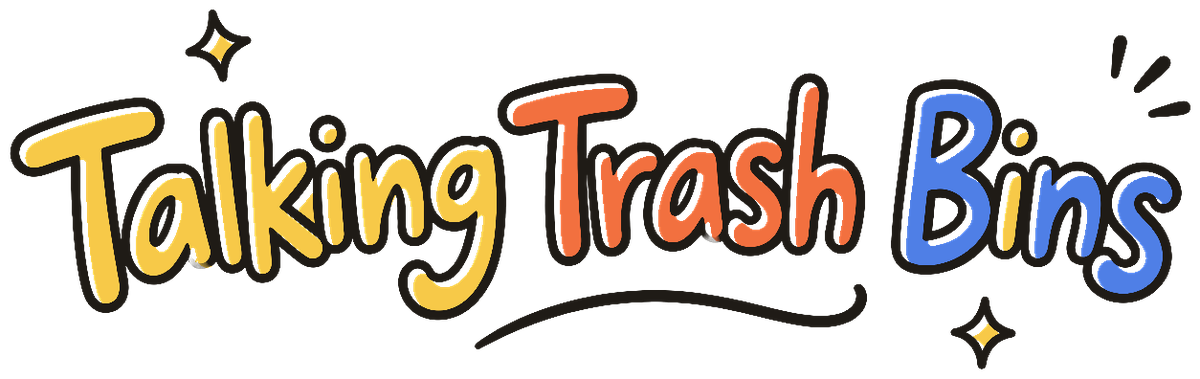
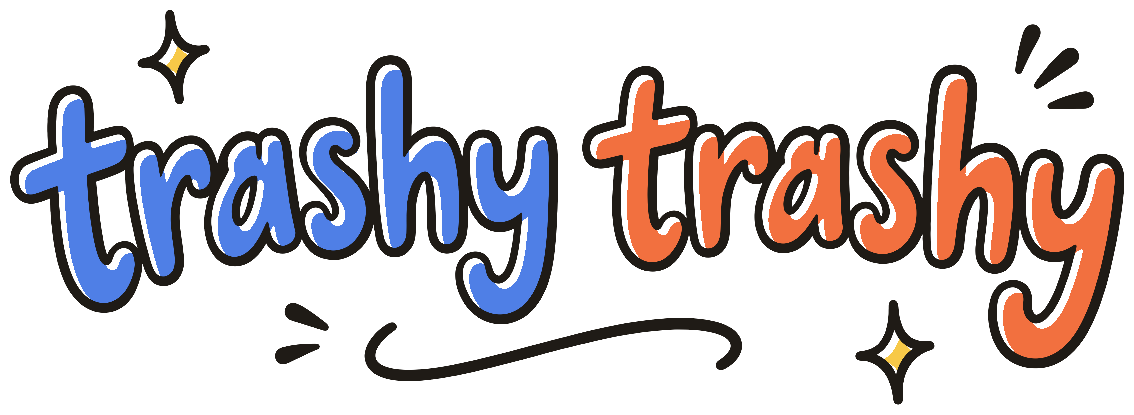
Rename title to "trashy trashy"
New hand-lettered title art (blue word over the recycling bin, orange
over the waste bin), page title and README heading updated.

diff --git a/stage.js b/stage.js
@@ -154,7 +154,7 @@ const Stage = (() => {
     let html = `
       <path class="ink floor" d="M 90 ${FLOOR_Y} q 200 -7 400 -1 t 400 2 t 400 -3 t 220 1"/>
       <path class="ink thin" d="M 300 ${FLOOR_Y + 14} l 30 0 M 760 ${FLOOR_Y + 12} l 50 0 M 1260 ${FLOOR_Y + 15} l 34 0"/>
-      <image class="title" href="art/title.png" x="490" y="18" width="620" height="196"/>`;
+      <image class="title" href="art/title.png" x="500" y="10" width="600" height="220"/>`;
 
     ids.forEach((id, i) => {
       const b = CONFIG.BINS[id];

diff --git a/index.html b/index.html
@@ -3,7 +3,7 @@
 <head>
   <meta charset="utf-8">
   <meta name="viewport" content="width=device-width, initial-scale=1">
-  <title>Talking Trash Bins</title>
+  <title>trashy trashy</title>
   <link rel="icon" href="data:,">
   <!-- Clean sans: SF Pro on Macs, Inter (the closest free match) everywhere else, Segoe UI when offline -->
   <link rel="preconnect" href="https://fonts.googleapis.com">

diff --git a/README.md b/README.md
@@ -1,4 +1,4 @@
-# Talking Trash Bins: Makey Makey prototype
+# trashy trashy: talking trash bins (Makey Makey prototype)
 
 Two bins, one for recycling and one for waste, that talk:
 
